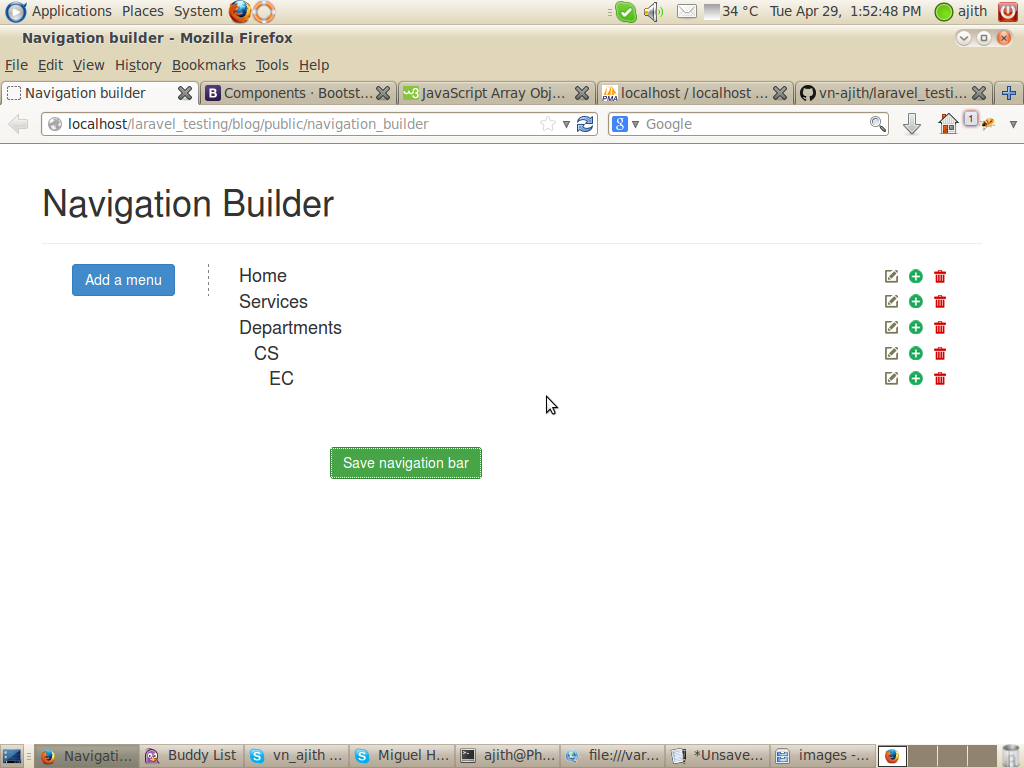
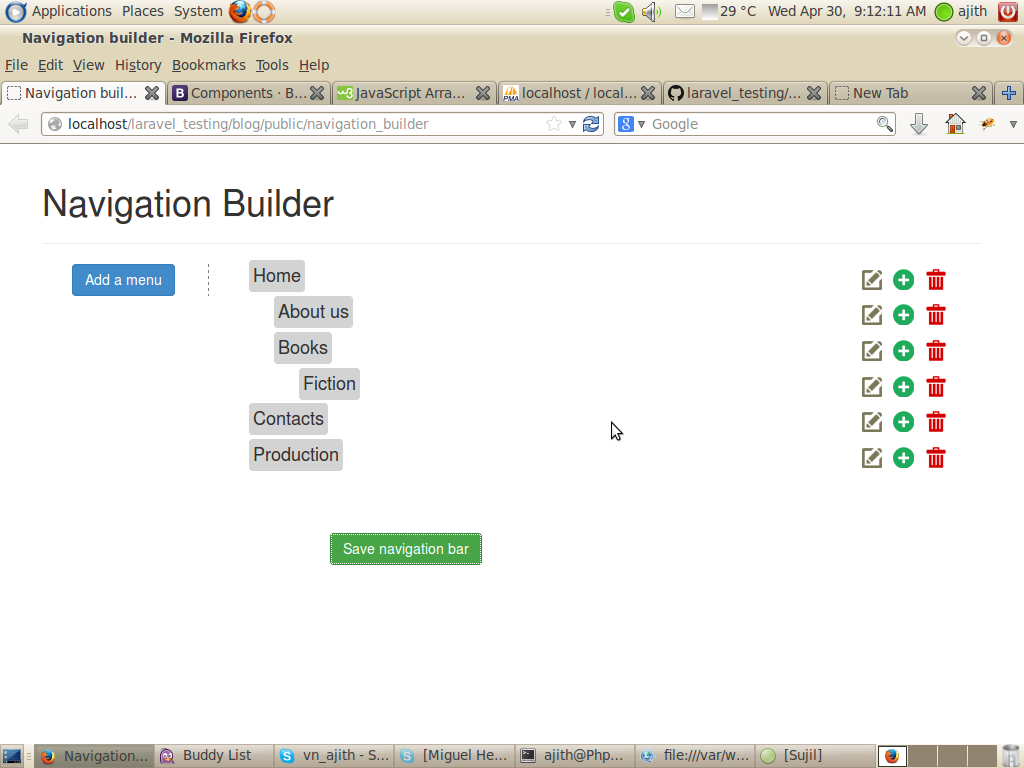
Navigation builder completed:: working on logic of integrating it to page builder

diff --git a/public/assets/js/nav_builder.js b/public/assets/js/nav_builder.js
@@ -1,5 +1,5 @@
 $(document).ready(function(){
-	$("#save_nav").hide();
+	$("#save_nav").hide();	
 	var navigation = {};
 	var item_num = 0
 	navigation["nav_details"] = {};
@@ -9,15 +9,15 @@ $(document).ready(function(){
 		$('#nav_url').val("");
 		$('#myModal_add_menu').modal('toggle');
 		$("#save_nav").show();
-			
+
 	});
 	$("#add_new_menu").click(function(){
 		var nav_title = $('#nav_title').val();
 		var nav_url = $('#nav_url').val();
-		var str="<div class='box' id='"+nav_title+"' >"+nav_title;
-		str = str +  "<div class='edit'><img class='task' src='assets/images/edit.png' id ='"+nav_title+"_settings' >";
+		var str="<div class='box' id='"+nav_title+"' ><span class='box_test'>"+nav_title+"</span>";
+		str = str + "<div class='edit'><img class='task' src='assets/images/edit.png' id ='"+nav_title+"_settings' >";
 		str = str + "<img class='task' src='assets/images/add_new.png' id= '"+nav_title+"_add_new'>";
-		str = str + "<img class='task' src='assets/images/delete.png' id ='"+nav_title+"_delete'></div></div>";
+		str = str + "<img class='task' src='assets/images/delete.png' id ='"+nav_title+"_delete'></div><p></p></div>";
 		navigation["nav_details"][nav_title] = {};
 		navigation["nav_details"][nav_title]["title"] = nav_title;
 		navigation["nav_details"][nav_title]["url"] = nav_url;
@@ -27,14 +27,14 @@ $(document).ready(function(){
 		item_num ++;
 		console.log(navigation);
 	});
-	
-	
+
+
 	$("body").on("click","img[id$='_delete']",function(){
 		var id = this.id;
 		var n = id.search("_delete");
 		var name = id.substring(0,n);
 		$('#'+name).remove();
-		
+
 	});
 	$("body").on("click","img[id$='_settings']",function(){
 		var id = this.id;
@@ -46,8 +46,8 @@ $(document).ready(function(){
 		$('#nav_sub_url').val(navigation["nav_details"][name]["url"]);
 		$('#myModal_add_sub_menu').modal('toggle');
 		
-
 		
+
 	});
 	$("body").on("click","img[id$='_add_new']",function(){
 		var id = this.id;
@@ -62,18 +62,18 @@ $(document).ready(function(){
 		
 	});
 	$("#add_new_sub_menu").click(function(){
-		
+
 		var menu = $('#menu').val();
 		
 		
 		var nav_title = $('#nav_sub_title').val();
 		var nav_url = $('#nav_sub_url').val();
 		
-		var str =  "<div class='box' id='"+nav_title+"' ><div style='margin-left:10px;'></div>";
-		str = str +nav_title+  "<div class='edit'><img class='task' src='assets/images/edit.png' id ='"+nav_title+"_settings' >";
+		var str = "<div class='box' id='"+nav_title+"' >";
+		str = str +"<span class='box_test'>"+nav_title+ "</span><div class='edit'><img class='task' src='assets/images/edit.png' id ='"+nav_title+"_settings' >";
 		str = str + "<img class='task' src='assets/images/add_new.png' id= '"+nav_title+"_add_new'>";
 		
-		str = str + "<img class='task' src='assets/images/delete.png' id ='"+nav_title+"_delete'></div></div>";
+		str = str + "<img class='task' src='assets/images/delete.png' id ='"+nav_title+"_delete'></div><p></p></div>";
 		
 		
 		$("#"+menu).append(str);
@@ -82,16 +82,16 @@ $(document).ready(function(){
 		navigation["nav_details"][nav_title]["url"] = nav_url;
 		if(navigation["nav_details"][menu]["parent"] !="")
 		{
-			navigation["nav_details"][nav_title]["parent"] = navigation["nav_details"][menu]["parent"]+"_"+menu;		
+		navigation["nav_details"][nav_title]["parent"] = navigation["nav_details"][menu]["parent"]+"_"+menu;	
 		}
 		else
 		{
-			navigation["nav_details"][nav_title]["parent"] = menu;
+		navigation["nav_details"][nav_title]["parent"] = menu;
 		}
 		
 		console.log(navigation);
 		$('#myModal_add_sub_menu').modal('toggle');
-		
+
 	});
 	$("#save_nav").click(function(){
 		$.ajax({
@@ -101,19 +101,10 @@ $(document).ready(function(){
 			}).done(function(){
 				alert("Navigation bar saved successfully");
 			});
-// 		$.ajax({
-// 					url: "/laravel_testing/blog/public/generate_form_data_table",
-// 					type:"POST",
-// 					
-// 					data:{"id":id,"radio":value_radio}
-// 					})
-// 					.done(function( d ){
-// 						
-// 						$('#form_data_display').html(d);
-// 					});
-	});
-	
-	
-	
-	
+
+		});
+
+
+
+
 });

diff --git a/app/views/Navigations/navigation_builder.blade.php b/app/views/Navigations/navigation_builder.blade.php
@@ -6,8 +6,8 @@
 	border-right:1px grey dashed;
 }
 li {
-	
-	
+
+
 	border-radius:7px;	
 	padding:10px;
 }
@@ -15,7 +15,7 @@ li {
 	float:right;
 }
 .box{
-	padding-left:15px;	
+	padding-left:25px;	
 	font-size:18px;
 }
 .task{
@@ -23,28 +23,33 @@ li {
 }
 #save_nav{
 	margin-left:30%;
-	margin-top:6%;  
+	margin-top:6%;
+
+}
+.box_test {
+	background-color: #D3D3D3;
+	border: 1px solid #D3D3D3;
+	border-radius: 4px;
+	padding:3px
 	
 }
-	
+
 </style>
 <div class="container">
-	
+
 	<section id="page_builder_header">
-  		<div class="page-header">
+   		<div class="page-header">
 			<h1>Navigation Builder</h1>
-  		</div>
+		</div>
 	</section>
 
-	
+
 	<div class="col-md-12">
 		<div class="col-md-2">
 			<input type="button" id="add_menu" value="Add a menu" class="btn btn-primary">
 		</div>
 		<div class="col-md-10">
 			<div id="menu_holder">
-				
-				
 
 			</div>
 		</div>
@@ -59,8 +64,8 @@ li {
 			<div class="modal-dialog">
 				<div class="modal-content">
 					<div class="modal-header">
-				
-							<h4 class="modal-title" id="myModalLabel">Add a menu</h4>
+
+						<h4 class="modal-title" id="myModalLabel">Add a menu</h4>
 					</div>
 					<div class="modal-body">
 						<div id="settings">
@@ -69,37 +74,37 @@ li {
 								<input type="text" class="form-control" id="nav_title" placeholder="Enter menu title">
 								<div id="nav_title_error" ></div>	
 							</div>
-			
-										
+
+
 							<div class="form-group">
 								<label for="form_url">URL</label>
 								<input type="text" class="form-control" id="nav_url" placeholder="Enter menu URL">
 								<div id="nav_url_error" ></div>	
 							</div>
-					
-					
+
+
 						</div>
-				
-				
+
+
 					</div>
-				
-			
+
+
 					<div class="modal-footer">
-				        	 <button type="button" class="btn btn-default" data-dismiss="modal">Close</button> 
+						<button type="button" class="btn btn-default" data-dismiss="modal">Close</button>
 						<button type="button" class="btn btn-primary" id="add_new_menu">Save changes</button>
 					</div>
 				</div>
 			</div>
-		</div>  <!-- end of modal for new main menu -->
-		
-		
-		<!-- end of modal for new sub menu -->
+		</div> <!-- end of modal for new main menu -->
+
+
+<!-- end of modal for new sub menu -->
 		<div class="modal fade" id="myModal_add_sub_menu" tabindex="-1" role="dialog" aria-labelledby="myModalLabel" aria-hidden="true">
 			<div class="modal-dialog">
 				<div class="modal-content">
 					<div class="modal-header">
-				
-							<h4 class="modal-title" id="myModalLabel_2">Add a sub menu</h4>
+
+						<h4 class="modal-title" id="myModalLabel_2">Add a sub menu</h4>
 					</div>
 					<div class="modal-body">
 						<div id="settings">
@@ -109,28 +114,28 @@ li {
 								<input type="text" class="form-control" id="nav_sub_title" placeholder="Enter menu title">
 								<div id="nav_sub_title_error" ></div>	
 							</div>
-			
-										
+	
+
 							<div class="form-group">
 								<label for="form_url">URL</label>
 								<input type="text" class="form-control" id="nav_sub_url" placeholder="Enter menu URL">
 								<div id="nav_sub_url_error" ></div>	
 							</div>
-					
-					
+
+
 						</div>
-				
-				
+
+
 					</div>
-				
-			
+
+
 					<div class="modal-footer">
-				        	 <button type="button" class="btn btn-default" data-dismiss="modal">Close</button> 
+						<button type="button" class="btn btn-default" data-dismiss="modal">Close</button>
 						<button type="button" class="btn btn-primary" id="add_new_sub_menu">Save changes</button>
 					</div>
 				</div>
 			</div>
-		</div>
+		</div>	
 	</div>
 
 </div>
